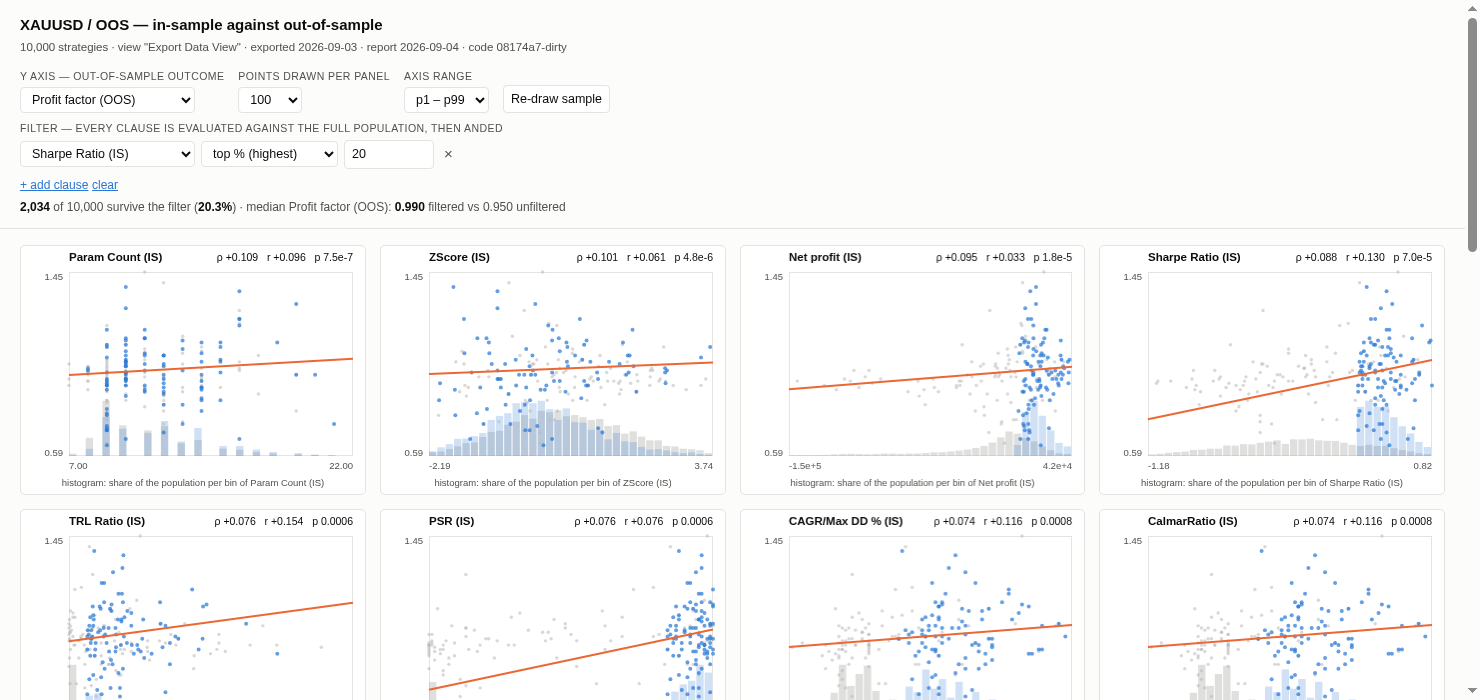
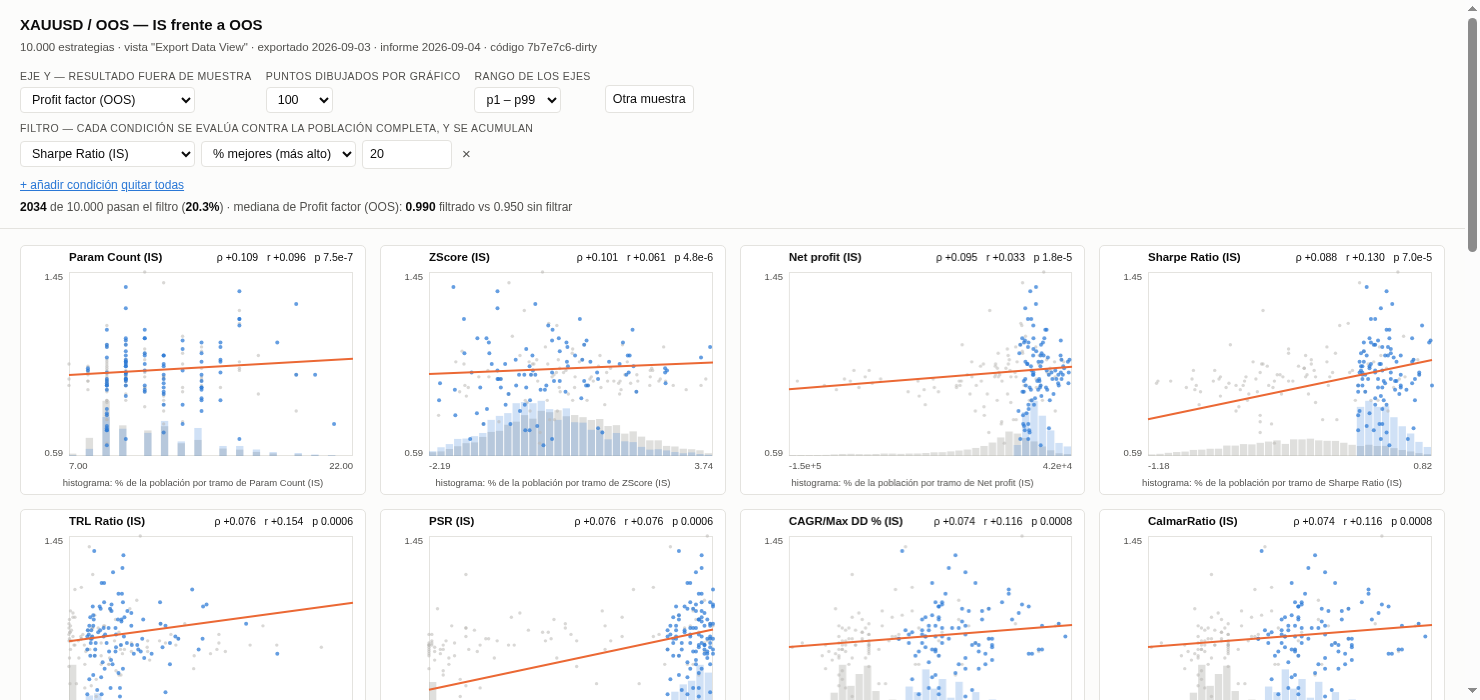
Put the panel in Spanish, and drop the superseded 36-row export
The panel is a report the owner reads, so it follows docs/manual/ rather than the
code: labels, the status line, the filter operators and the histogram caption are
now Spanish, and numbers format as es-ES so ten thousand reads 10.000. summary.md
stays English for now -- say the word and it follows.

The manual's control table named the English labels and its three screenshots
showed the English panel, so both were stale the moment the strings changed. All
three are regenerated from the real report. This is the documentation rule doing
its job on its first real test: the page had to change in the same commit as the
code it documents.

Deletes AlgoData/raw/XAUUSD/OOS/, which held only export_data_view.csv -- the same
view and the same 37 columns as the current metrics export, but 36 rows against
10,000. Superseded, and keeping it invited reading the wrong file.

diff --git a/2_tasks/reports/panel.html b/2_tasks/reports/panel.html
@@ -1,9 +1,9 @@
 <!doctype html>
-<html lang="en">
+<html lang="es">
 <head>
 <meta charset="utf-8">
 <meta name="viewport" content="width=device-width, initial-scale=1">
-<title>IS vs OOS</title>
+<title>IS frente a OOS</title>
 <style>
   :root {
     --blue:#2a78d6; --orange:#eb6834; --aqua:#1baf7a;
@@ -40,33 +40,33 @@
 <body>
 
 <header>
-  <h1 id="title">In-sample against out-of-sample</h1>
+  <h1 id="title">IS frente a OOS</h1>
   <div class="src" id="src"></div>
 
   <div class="row">
-    <div><label for="y">Y axis — out-of-sample outcome</label>
+    <div><label for="y">Eje Y — resultado fuera de muestra</label>
          <select id="y"></select></div>
-    <div><label for="points">Points drawn per panel</label>
+    <div><label for="points">Puntos dibujados por gráfico</label>
          <select id="points">
            <option value="50">50</option>
            <option value="100" selected>100</option>
            <option value="500">500</option>
            <option value="2000">2000</option>
-           <option value="0">all</option>
+           <option value="0">todos</option>
          </select></div>
-    <div><label for="clip">Axis range</label>
+    <div><label for="clip">Rango de los ejes</label>
          <select id="clip">
            <option value="0.01">p1 – p99</option>
            <option value="0.05">p5 – p95</option>
-           <option value="0">full</option>
+           <option value="0">completo</option>
          </select></div>
-    <div><label>&nbsp;</label><button id="reroll">Re-draw sample</button></div>
+    <div><label>&nbsp;</label><button id="reroll">Otra muestra</button></div>
   </div>
 
-  <div><label>Filter — every clause is evaluated against the full population, then ANDed</label>
+  <div><label>Filtro — cada condición se evalúa contra la población completa, y se acumulan</label>
        <div id="clauses"></div>
-       <button class="link" id="add">+ add clause</button>
-       <button class="link" id="clear">clear</button></div>
+       <button class="link" id="add">+ añadir condición</button>
+       <button class="link" id="clear">quitar todas</button></div>
 
   <div id="status"></div>
 </header>
@@ -74,11 +74,11 @@
 <main id="grid"></main>
 
 <footer>
-  Statistics — correlation, regression and the histogram — are computed on every strategy that
-  passes the filter, never on the drawn sample. The sample only limits how many dots are painted,
-  and it is the same set of strategies in every panel. When a filter is active the whole population
-  stays behind in grey so the subset can be read against it. Points outside the axis range are not
-  drawn but are still in the statistics.
+  Las estadísticas — correlación, regresión e histograma — se calculan sobre todas las estrategias
+  que pasan el filtro, nunca sobre la muestra dibujada. La muestra solo limita cuántos puntos se
+  pintan, y son las mismas estrategias en todos los gráficos. Con un filtro puesto, la población
+  entera se queda detrás en gris para poder comparar. Los puntos que caen fuera del rango de los
+  ejes no se dibujan, pero sí cuentan en las estadísticas.
 </footer>
 
 <script>const PAYLOAD = __PAYLOAD__;</script>
@@ -309,7 +309,7 @@ function drawPanel(canvas, xname) {
   g.fillText(fmt(y1, yw), PAD.l - 6, PAD.t + 8);
   g.fillText(fmt(y0, yw), PAD.l - 6, h - PAD.b);
   g.textAlign = 'center';
-  g.fillText('histogram: share of the population per bin of ' + xname, w / 2, h - 8);
+  g.fillText('histograma: % de la población por tramo de ' + xname, w / 2, h - 8);
   return rho;
 }
 
@@ -319,12 +319,14 @@ function render() {
   state.idx = survivors(state.clauses);
   const n = state.idx.length;
   const yf = take(D[state.y], state.idx);
+  const miles = v => v.toLocaleString('es-ES');
   const line = n === N
-    ? `<b>${N.toLocaleString()}</b> strategies, no filter · median ${state.y}: <b>${fmt(median(yf))}</b>`
-    : `<b>${n.toLocaleString()}</b> of ${N.toLocaleString()} survive the filter `
-      + `(<b>${(100 * n / N).toFixed(1)}%</b>) · median ${state.y}: `
-      + `<b>${fmt(median(yf))}</b> filtered vs ${fmt(median(D[state.y]))} unfiltered`;
-  document.getElementById('status').innerHTML = n === 0 ? '<b>no strategy passes the filter</b>' : line;
+    ? `<b>${miles(N)}</b> estrategias, sin filtro · mediana de ${state.y}: <b>${fmt(median(yf))}</b>`
+    : `<b>${miles(n)}</b> de ${miles(N)} pasan el filtro `
+      + `(<b>${(100 * n / N).toFixed(1)}%</b>) · mediana de ${state.y}: `
+      + `<b>${fmt(median(yf))}</b> filtrado vs ${fmt(median(D[state.y]))} sin filtrar`;
+  document.getElementById('status').innerHTML =
+    n === 0 ? '<b>ninguna estrategia pasa el filtro</b>' : line;
 
   const grid = document.getElementById('grid');
   grid.innerHTML = '';
@@ -353,13 +355,13 @@ function clauseRow(clause) {
   row.innerHTML =
     `<select class="col">${NUMERIC.map(c => `<option${c === clause.col ? ' selected' : ''}>${c}</option>`).join('')}</select>
      <select class="op">
-       <option value="top">top % (highest)</option>
-       <option value="bottom">bottom % (lowest)</option>
+       <option value="top">% mejores (más alto)</option>
+       <option value="bottom">% peores (más bajo)</option>
        <option value="&gt;">&gt;</option><option value="&gt;=">&ge;</option>
        <option value="&lt;">&lt;</option><option value="&lt;=">&le;</option>
      </select>
      <input class="val" type="number" step="any" value="${clause.value}" style="width:90px">
-     <button class="x" title="remove">&times;</button>`;
+     <button class="x" title="quitar">&times;</button>`;
   row.querySelector('.op').value = clause.op;
   const read = () => {
     clause.col = row.querySelector('.col').value;
@@ -378,10 +380,10 @@ function clauseRow(clause) {
 
 function boot() {
   document.getElementById('title').textContent =
-    `${P.source.project} / ${P.source.databank} — in-sample against out-of-sample`;
+    `${P.source.project} / ${P.source.databank} — IS frente a OOS`;
   document.getElementById('src').textContent =
-    `${N.toLocaleString()} strategies · view "${P.source.view}" · exported ${P.source.exported} `
-    + `· report ${P.source.reported} · code ${P.source.code_version}`;
+    `${N.toLocaleString('es-ES')} estrategias · vista "${P.source.view}" · exportado `
+    + `${P.source.exported} · informe ${P.source.reported} · código ${P.source.code_version}`;
 
   const y = document.getElementById('y');
   y.innerHTML = P.oos.map(m => `<option>${m}</option>`).join('');

diff --git a/docs/manual/01-analisis-is-oos.md b/docs/manual/01-analisis-is-oos.md
@@ -110,15 +110,16 @@ No esperes 0,8: en este negocio no existe.
 
 | control | qué hace |
 |---|---|
-| **Y axis** | cambia la métrica de resultado OOS que estás intentando predecir |
-| **Points drawn per panel** | cuántos puntos se **dibujan**, por defecto 100. Dibujar 10.000 puntos tapa el gráfico entero. **Los números no cambian**: ρ, la línea y el histograma siempre usan todas las estrategias. Esto solo afecta a lo que ves |
-| **Axis range** | por defecto recorta el 1% de cada extremo, porque cuatro estrategias absurdas te aplastan el gráfico. `full` enseña todo |
-| **Re-draw sample** | otros 100 puntos al azar, por si te ha tocado una muestra rara |
+| **Eje Y** | cambia la métrica de resultado OOS que estás intentando predecir |
+| **Puntos dibujados por gráfico** | cuántos puntos se **dibujan**, por defecto 100. Dibujar 10.000 puntos tapa el gráfico entero. **Los números no cambian**: ρ, la línea y el histograma siempre usan todas las estrategias. Esto solo afecta a lo que ves |
+| **Rango de los ejes** | por defecto recorta el 1% de cada extremo, porque cuatro estrategias absurdas te aplastan el gráfico. `completo` enseña todo |
+| **Otra muestra** | otros 100 puntos al azar, por si te ha tocado una muestra rara |
 
 ### Filtrar
 
-Aquí es donde el panel deja de describir y empieza a servir para decidir. `+ add clause` añade una
-condición: por ejemplo *quédate solo con el 20% de mejor Sharpe en el IS*.
+Aquí es donde el panel deja de describir y empieza a servir para decidir. `+ añadir condición`
+añade una regla: por ejemplo *quédate solo con el 20% de mejor Sharpe en el IS*. Las opciones
+`% mejores` y `% peores` cortan por percentil; `>`, `≥`, `<` y `≤` cortan por un valor que escribes tú.
 
 ![El panel con un filtro aplicado](assets/panel-filtrado.png)
 
@@ -173,8 +174,8 @@ Abres el panel, dejas `Profit factor (OOS)` en el eje Y y miras el primer gráfi
 
 Añades el filtro *Sharpe Ratio (IS) — top % — 20*. Arriba aparece:
 
-> **2.034** of 10,000 survive the filter (**20.3%**) · median Profit factor (OOS): **0.990**
-> filtered vs 0.950 unfiltered
+> **2034** de 10.000 pasan el filtro (**20.3%**) · mediana de Profit factor (OOS): **0.990**
+> filtrado vs 0.950 sin filtrar
 
 Respuesta: **sí, pero poco.** Descartando el 80% de las estrategias, la mediana del profit factor
 OOS pasa de 0,950 a 0,990 — sigue por debajo de 1. Sirve como un filtro más, no como *el* filtro.
